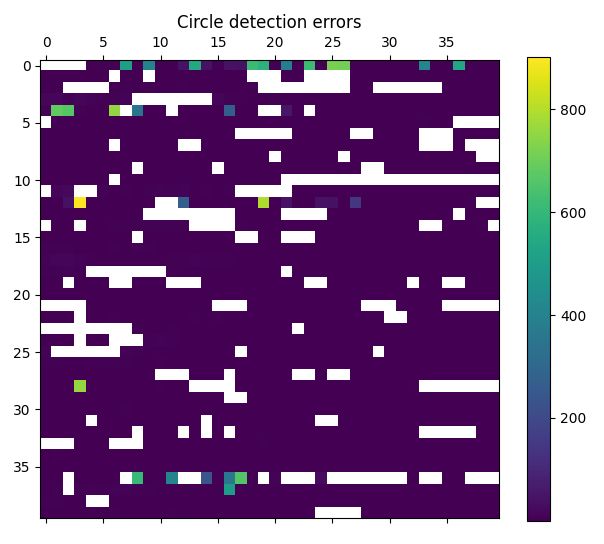
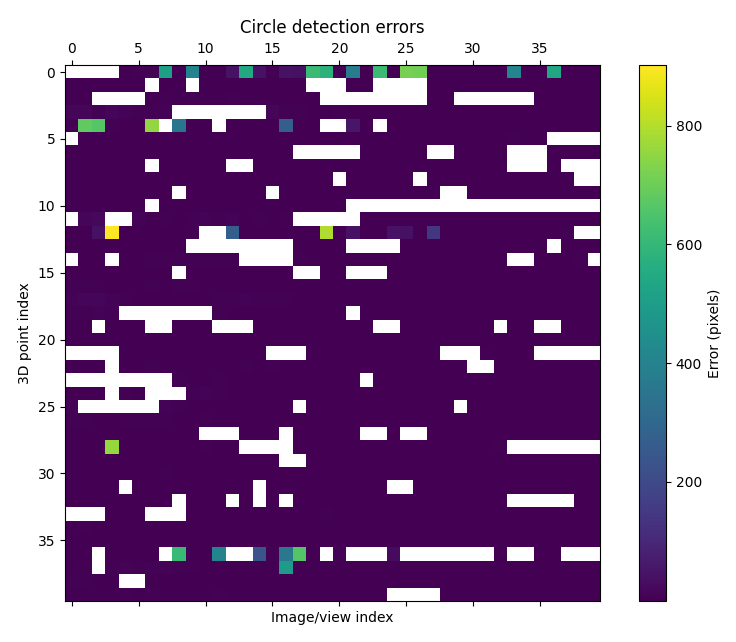
Proper residual plot labels

diff --git a/bundle_adjust_large_scale/run.py b/bundle_adjust_large_scale/run.py
@@ -119,7 +119,9 @@ if __name__ == "__main__":
         fig = plt.figure()
         ax = fig.add_subplot(111)
         plot = ax.matshow(circle_detect_errors)
-        fig.colorbar(plot)
+        fig.colorbar(plot, label='Error (pixels)')
+        ax.set_xlabel('Image/view index')
+        ax.set_ylabel('3D point index')
         ax.set_title('Circle detection errors')
 
     # Inital estimates: This is crucial to calculate a successful bundle adjustment
@@ -187,7 +189,9 @@ if __name__ == "__main__":
     fig = plt.figure()
     ax = fig.add_subplot(111)
     plot = ax.matshow(residuals)
-    fig.colorbar(plot)
+    fig.colorbar(plot, label='Error (pixels)')
+    ax.set_xlabel('Image/view index')
+    ax.set_ylabel('3D point index')
     ax.set_title('Residual errors')
 
     plt.show()

diff --git a/common/test_bundle_adjust.py b/common/test_bundle_adjust.py
@@ -302,7 +302,9 @@ def test_bundle_adjust_points_and_poses_basic():
         fig = plt.figure()
         ax = fig.add_subplot(111)
         plot = ax.matshow(residuals)
-        fig.colorbar(plot)
+        fig.colorbar(plot, label='Error (pixels)')
+        ax.set_xlabel('Image/view index')
+        ax.set_ylabel('3D point index')
         ax.set_title('Residual errors')
 
         plt.show()
